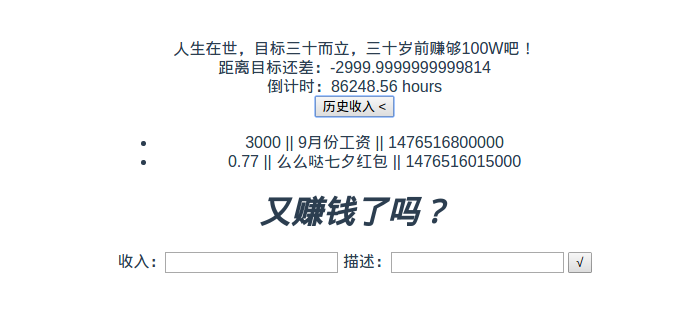
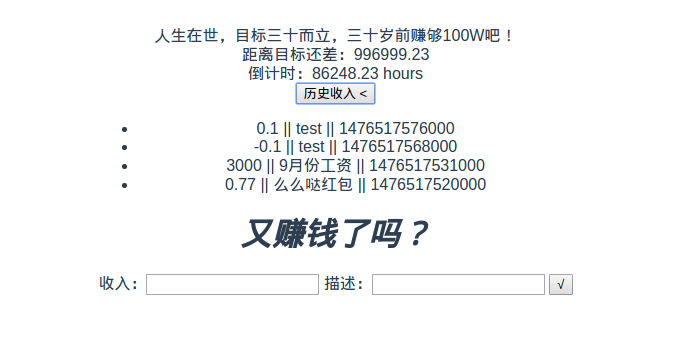
debug

diff --git a/src/gom.vue b/src/gom.vue
@@ -50,10 +50,12 @@ export default {
             handler: function(val) {
                 // Store.save(val)
                 console.log(this.all_incomes)
+                var dist = 1000000
                 for (var i = this.all_incomes.length - 1; i >= 0; i--) {
-                    this.dist -= parseFloat(this.all_incomes[i].money)
+                    dist -= parseFloat(this.all_incomes[i].money)
                 }
-                Store.seto(this.dist)
+                this.dist = dist
+                Store.seto(dist)
             },
             deep: true
         }

diff --git a/src/storemoney.js b/src/storemoney.js
@@ -8,7 +8,7 @@ export default {
 	},
 	geto: function () {
 		var dist = JSON.parse(window.localStorage.getItem('dist') || 0)
-		return 1000000-dist
+		return dist
 	},
 	seto: function (dist) {
 		window.localStorage.setItem('dist',dist)
